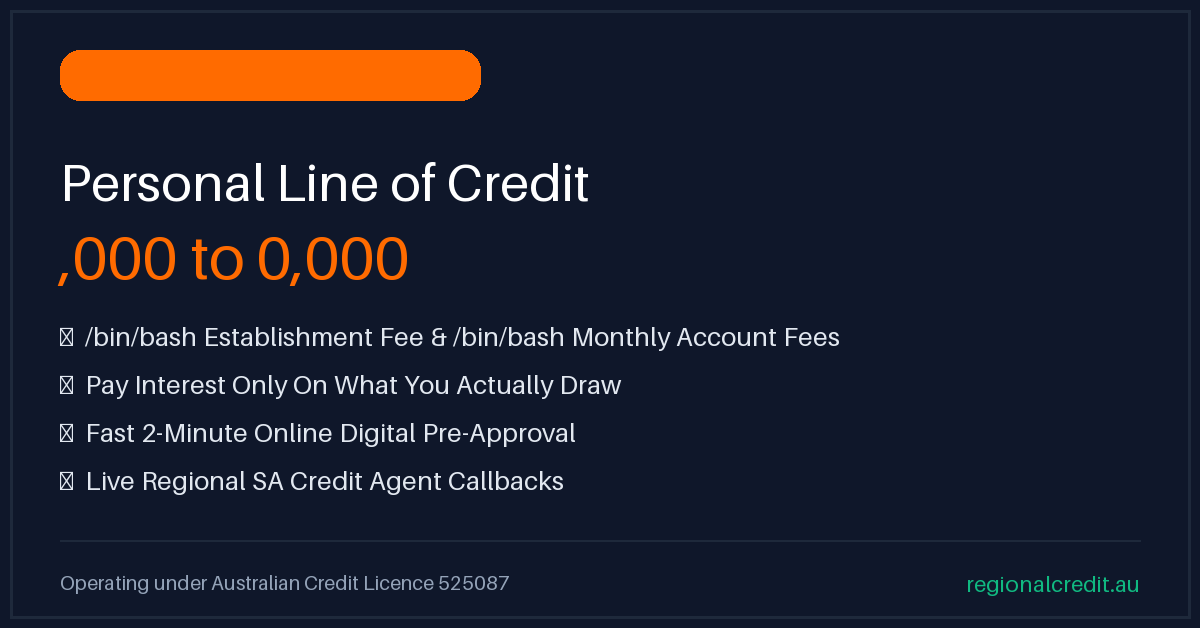
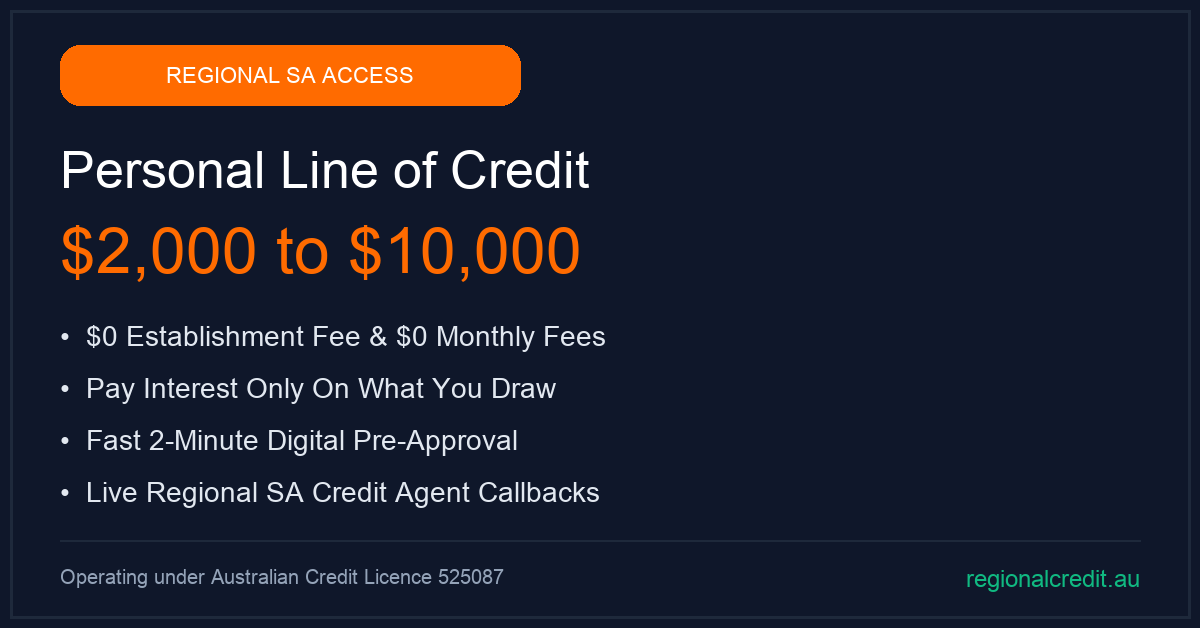
fix(ads): use clean Arial TTF font for dollar amounts and bullet formatting

diff --git a/scripts/generate_clean_ads.py b/scripts/generate_clean_ads.py
@@ -1,0 +1,102 @@
+import os
+from PIL import Image, ImageDraw, ImageFont
+
+os.makedirs('/Users/ccbaby/Desktop/Google_Ads_Assets', exist_ok=True)
+os.makedirs('/Users/ccbaby/Desktop/regionalcredit-web/public/ads', exist_ok=True)
+
+font_path = '/System/Library/Fonts/Supplemental/Arial.ttf'
+
+def get_font(size):
+    try:
+        return ImageFont.truetype(font_path, size)
+    except:
+        return ImageFont.load_default()
+
+# 1. LOGO (512x512)
+logo = Image.new('RGB', (512, 512), color=(15, 23, 42))
+d_logo = ImageDraw.Draw(logo)
+
+# Rounded outer border
+d_logo.rounded_rectangle([15, 15, 497, 492], radius=32, fill=(15, 23, 42), outline=(30, 41, 59), width=4)
+
+# Orange RC badge box
+d_logo.rounded_rectangle([136, 80, 376, 310], radius=36, fill=(255, 107, 0))
+
+f_logo_rc = get_font(130)
+f_logo_text = get_font(38)
+f_logo_sub = get_font(24)
+
+d_logo.text((256, 185), 'RC', fill=(255, 255, 255), anchor='mm', font=f_logo_rc)
+d_logo.text((256, 380), 'Regional Credit', fill=(255, 255, 255), anchor='mm', font=f_logo_text)
+d_logo.text((256, 435), 'ACL #525087', fill=(148, 163, 184), anchor='mm', font=f_logo_sub)
+
+logo.save('/Users/ccbaby/Desktop/Google_Ads_Assets/logo.png')
+logo.save('/Users/ccbaby/Desktop/regionalcredit-web/public/ads/logo.png')
+
+# 2. LANDSCAPE AD IMAGE (1200x628)
+land = Image.new('RGB', (1200, 628), color=(15, 23, 42))
+d_land = ImageDraw.Draw(land)
+
+# Border
+d_land.rectangle([10, 10, 1190, 618], outline=(30, 41, 59), width=3)
+
+# Top Orange Badge
+d_land.rounded_rectangle([60, 45, 520, 105], radius=20, fill=(255, 107, 0), outline=(255, 107, 0))
+d_land.text((290, 75), 'REGIONAL SA ACCESS', fill=(255, 255, 255), anchor='mm', font=get_font(22))
+
+# Headlines
+d_land.text((60, 140), 'Personal Line of Credit', fill=(255, 255, 255), font=get_font(52))
+d_land.text((60, 215), '$2,000 to $10,000', fill=(255, 107, 0), font=get_font(64))
+
+# Bullet Points
+bullets = [
+    '•  $0 Establishment Fee & $0 Monthly Fees',
+    '•  Pay Interest Only On What You Draw',
+    '•  Fast 2-Minute Digital Pre-Approval',
+    '•  Live Regional SA Credit Agent Callbacks'
+]
+f_bullet = get_font(28)
+y_pos = 320
+for b in bullets:
+    d_land.text((60, y_pos), b, fill=(226, 232, 240), font=f_bullet)
+    y_pos += 52
+
+# Footer
+d_land.line([60, 540, 1140, 540], fill=(30, 41, 59), width=2)
+d_land.text((60, 565), 'Operating under Australian Credit Licence 525087', fill=(148, 163, 184), font=get_font(20))
+d_land.text((1140, 565), 'regionalcredit.au', fill=(16, 185, 129), anchor='ra', font=get_font(24))
+
+land.save('/Users/ccbaby/Desktop/Google_Ads_Assets/ad_landscape.png')
+land.save('/Users/ccbaby/Desktop/regionalcredit-web/public/ads/ad_landscape.png')
+
+# 3. SQUARE AD IMAGE (1080x1080)
+sq = Image.new('RGB', (1080, 1080), color=(15, 23, 42))
+d_sq = ImageDraw.Draw(sq)
+
+# Outer Border
+d_sq.rectangle([15, 15, 1065, 1065], outline=(30, 41, 59), width=3)
+
+# Top Orange Badge
+d_sq.rounded_rectangle([140, 70, 940, 150], radius=24, fill=(255, 107, 0))
+d_sq.text((540, 110), '100% ONLINE PRE-APPROVAL', fill=(255, 255, 255), anchor='mm', font=get_font(34))
+
+# Titles
+d_sq.text((540, 220), 'Regional Credit SA', fill=(255, 255, 255), anchor='mm', font=get_font(54))
+d_sq.text((540, 310), '$2,050 – $10,000', fill=(255, 107, 0), anchor='mm', font=get_font(72))
+
+# Central Card
+d_sq.rounded_rectangle([100, 410, 980, 820], radius=32, fill=(30, 41, 59), outline=(51, 65, 85), width=3)
+d_sq.text((540, 470), 'FLEXIBLE PERSONAL LINE OF CREDIT', fill=(148, 163, 184), anchor='mm', font=get_font(28))
+
+d_sq.text((540, 560), '$0 Setup Fee  •  $0 Monthly Fees', fill=(16, 185, 129), anchor='mm', font=get_font(42))
+d_sq.text((540, 650), 'Redraw Funds Whenever You Need', fill=(255, 255, 255), anchor='mm', font=get_font(36))
+d_sq.text((540, 740), 'Fast Live Agent Callback', fill=(56, 189, 248), anchor='mm', font=get_font(34))
+
+# Footer
+d_sq.text((540, 900), 'Australian Credit Licence 525087', fill=(255, 255, 255), anchor='mm', font=get_font(32))
+d_sq.text((540, 960), 'Apply Online in 2 Mins @ regionalcredit.au', fill=(148, 163, 184), anchor='mm', font=get_font(26))
+
+sq.save('/Users/ccbaby/Desktop/Google_Ads_Assets/ad_square.png')
+sq.save('/Users/ccbaby/Desktop/regionalcredit-web/public/ads/ad_square.png')
+
+print('Clean script generated images successfully!')
